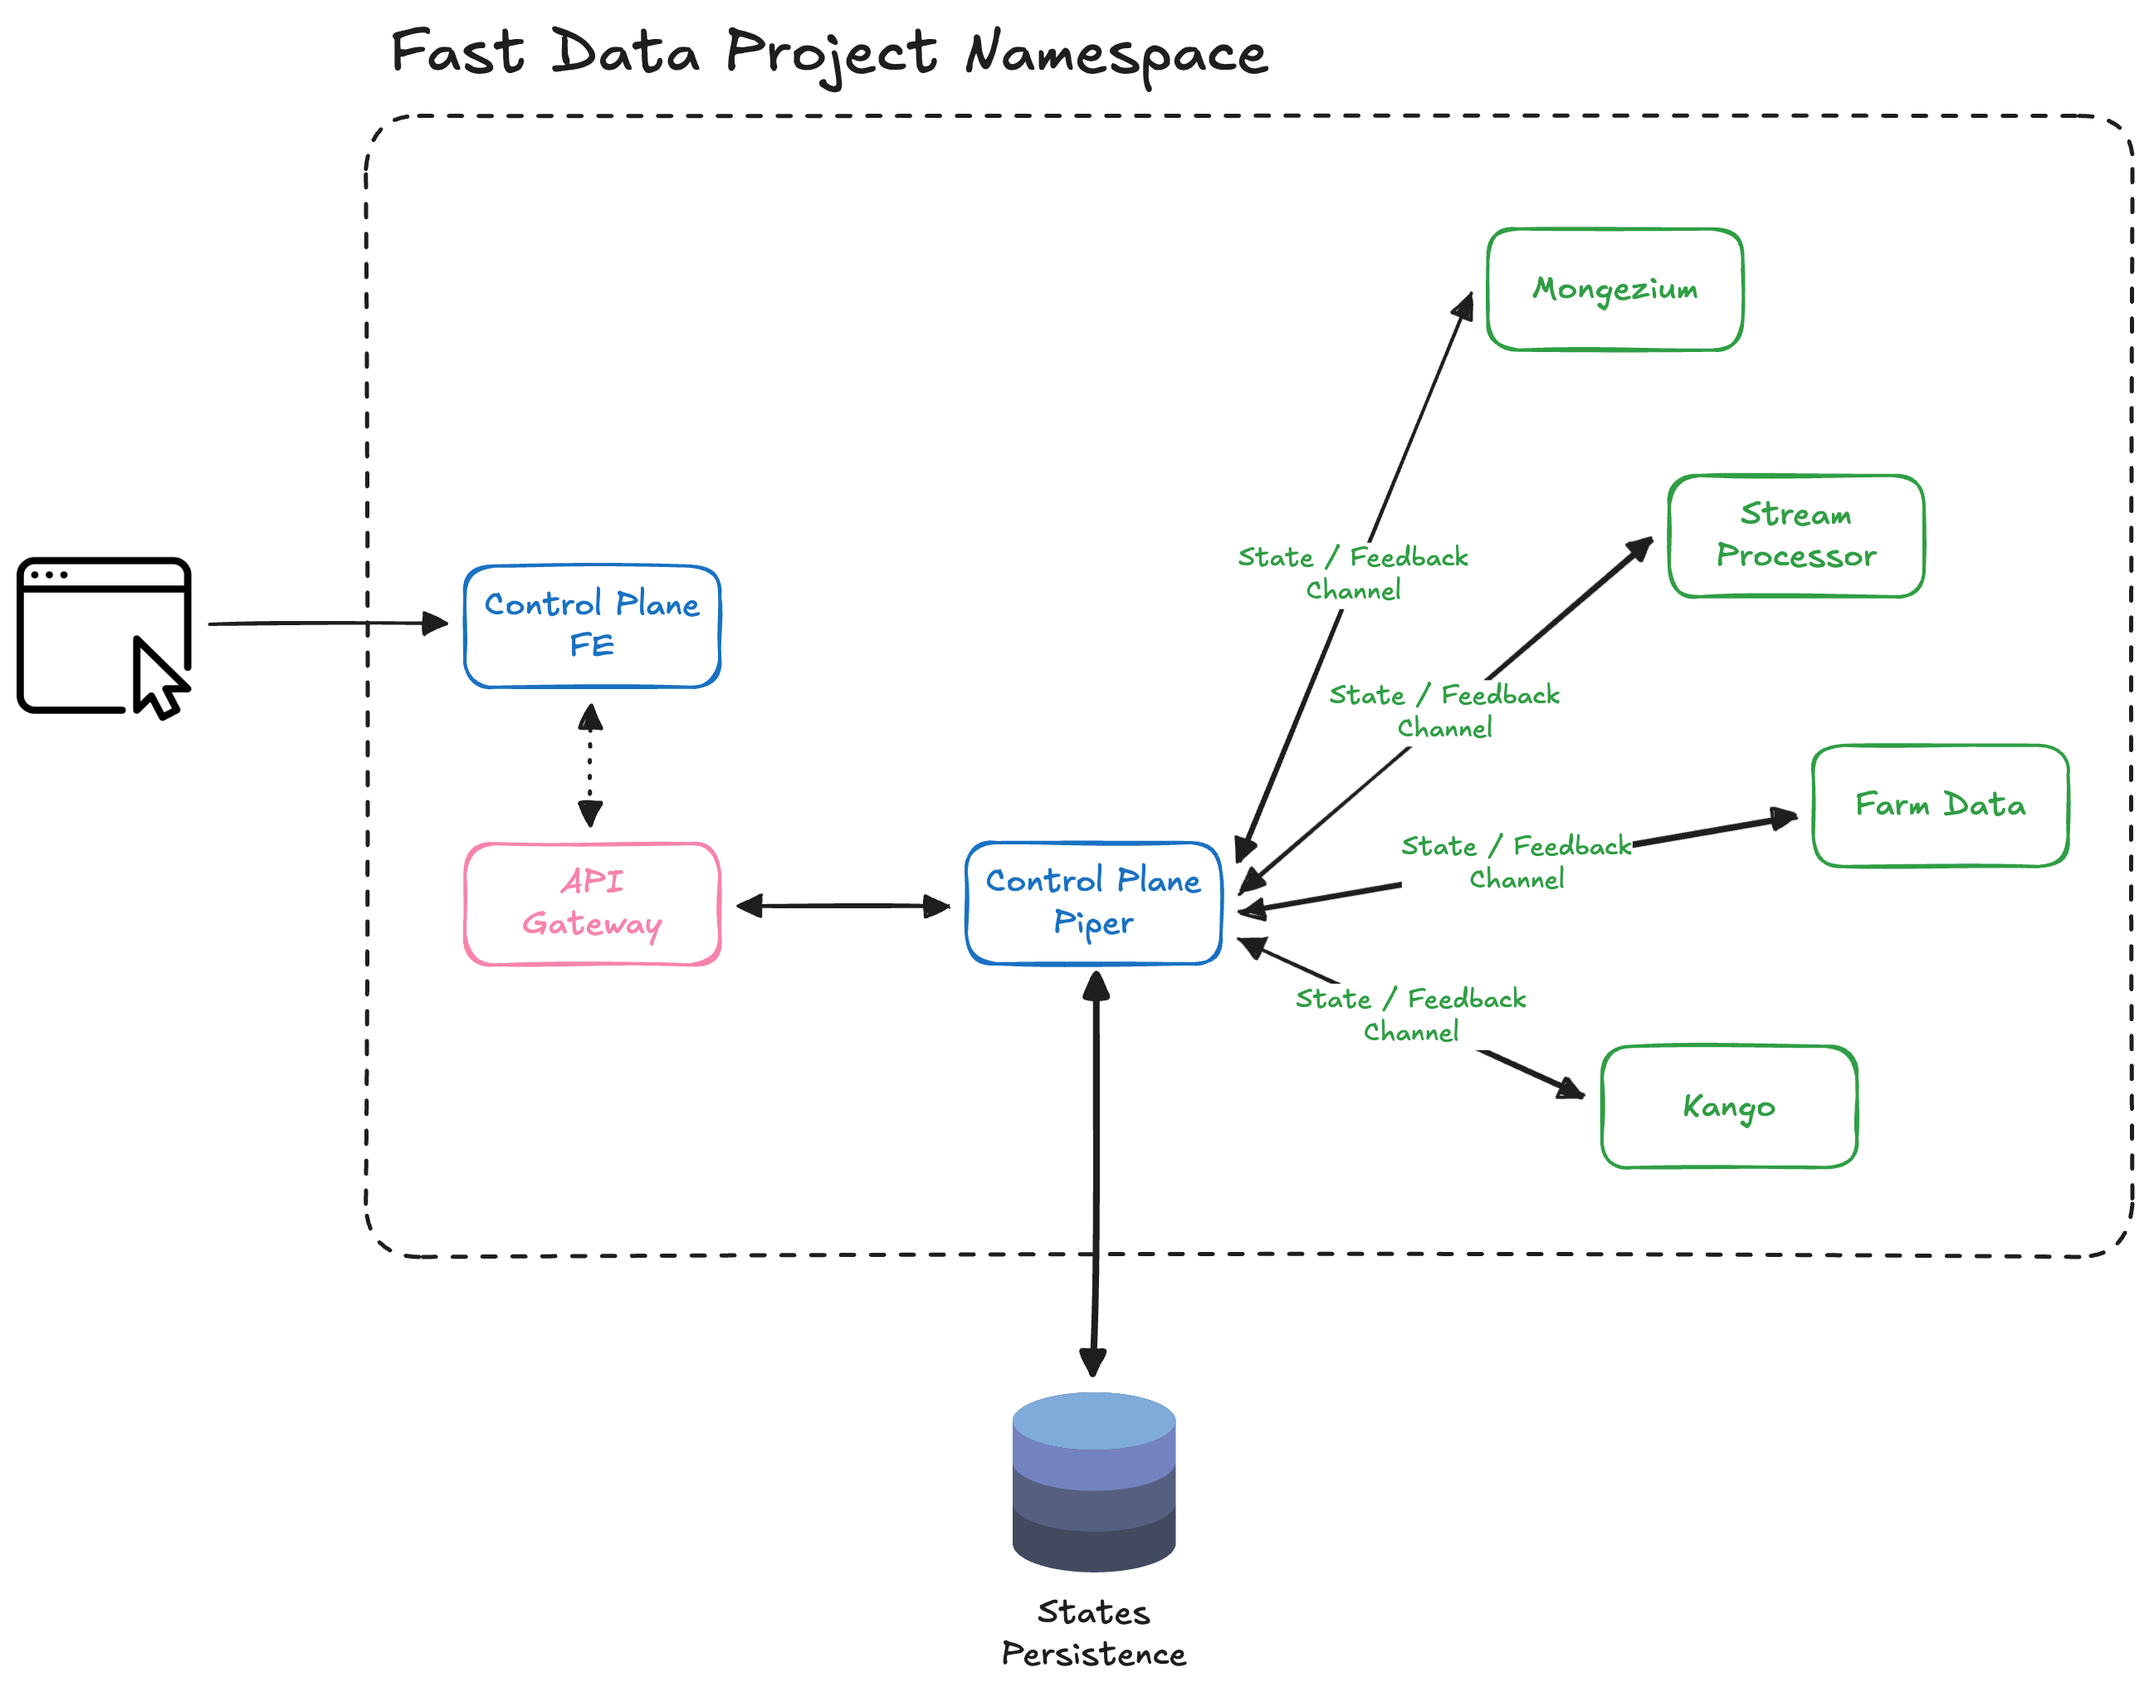
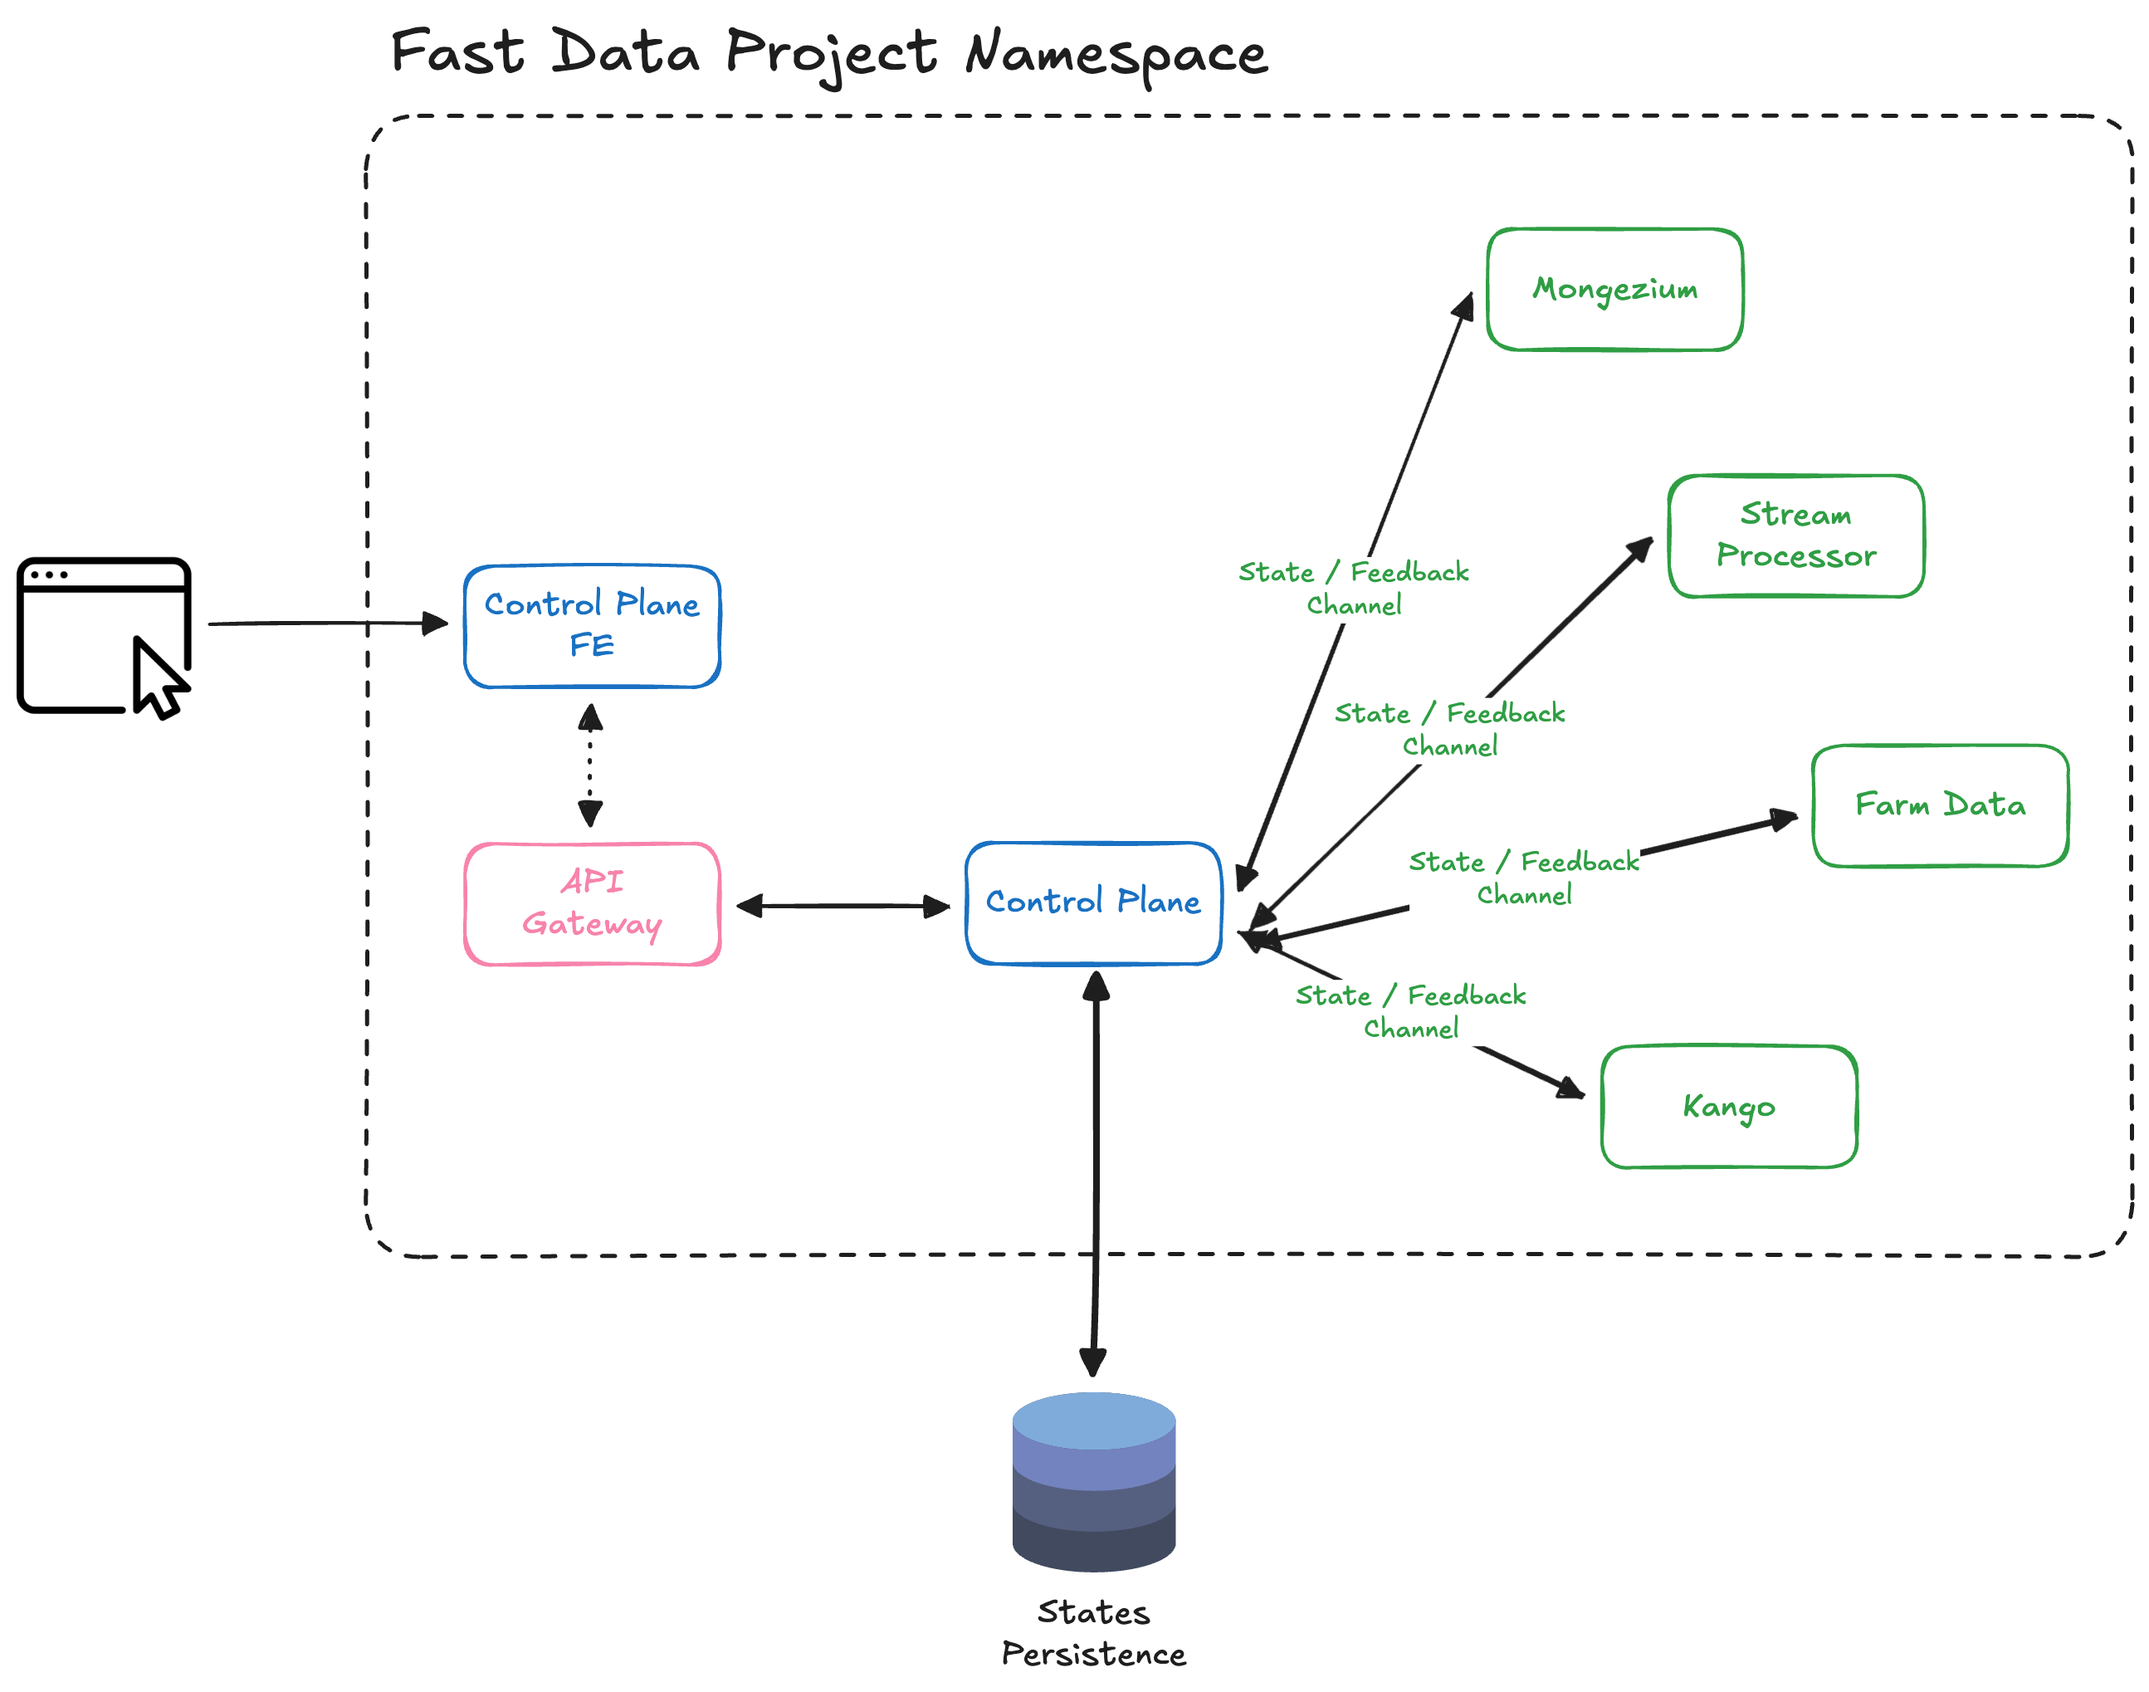
correcting compatibility matrix

diff --git a/docs/products/fast_data_v2/runtime_management/compatibility_matrix.md b/docs/products/fast_data_v2/runtime_management/compatibility_matrix.md
@@ -11,40 +11,40 @@ This section guides you to understand whether your Project can support Fast Data
 Here is described the compatibility between Fast Data v2 Control Plane application components and the external systems they rely on.
 Please ensure that versions shown in the matrix are respected in your deployed environments.
 
-| Service                                                                                       | Version | MongoDB | Redis  | Kafka |
-|-----------------------------------------------------------------------------------------------|---------|---------|--------|-------|
-| [Control Plane Frontend](/products/fast_data_v2/runtime_management/control_plane_ui)        | 0.1.0   | \>=5.0  | __N/A__ | __N/A__ |
-| [Control Plane Piper](/products/fast_data_v2/runtime_management/application_configuration)  | 0.1.0   | \>=5.0  | __N/A__ | \>=2.8  |
+| Service                 | Version | MongoDB |
+|-------------------------|---------|---------|
+| Control Plane Frontend  | 0.1.0   | \>=6.0  |
+| Control Plane           | 0.1.0   | \>=6.0  |
 
 <sup>*</sup><em>_N/A_</em> means the service does not depend on the resource
 
-## Fast Data Workloads
+## Fast Data Services
 
 Here is provided the compatibility matrix between Control Plane components and the Fast Data Engine v2 workloads that need to communicate with them.
 Please ensure that your services respect the following matrix.
 
-| Control Plane Frontend | Control Plane Piper | [Mongezium](/products/fast_data_v2/mongezium_cdc/overview) | [Stream Processor](/products/fast_data_v2/stream_processor/overview) | [Farm Data](/products/fast_data_v2/farm_data/overview) | [Kango](/products/fast_data_v2/kango/overview) |
+| [Control Plane Frontend](/products/fast_data_v2/runtime_management/application_configuration) | [Control Plane Piper](/products/fast_data_v2/runtime_management/application_configuration) | [Mongezium](/products/fast_data_v2/mongezium_cdc/overview) | [Stream Processor](/products/fast_data_v2/stream_processor/overview) | [Farm Data](/products/fast_data_v2/farm_data/overview) | [Kango](/products/fast_data_v2/kango/overview) |
 |:----------------------:|:-------------------:|:----------------------------------------------------------:|:---------------------------------------------------------------------:|:------------------------------------------------------:|:----------------------------------------------:|
-|         0.1.0          |        0.1.0        |                          \>=0.4.0                          |                                \>=0.5.0                                |                        \>=0.5.0                        |                    \>=0.5.0                    |
+|         0.1.0          |        0.1.0        |                          \>=0.5.0                          |                                \>=0.6.0                                |                        \>=0.6.0                        |                    \>=0.6.0                    |
 
 ## Service Latest Versions
 
 | Service                                                                                       | Version |
 |-----------------------------------------------------------------------------------------------|---------|
-| [Control Plane Frontend](/products/fast_data_v2/runtime_management/control_plane_ui)        | 0.1.0   |
+| [Control Plane Frontend](/products/fast_data_v2/runtime_management/application_configuration)        | 0.1.0   |
 | [Control Plane Piper](/products/fast_data_v2/runtime_management/application_configuration)  | 0.1.0   |
-| [Mongezium](/products/fast_data_v2/mongezium_cdc/overview)                                   | 0.4.3   |
-| [Stream Processor](/products/fast_data_v2/stream_processor/overview)                         | 0.5.6   |
-| [Farm Data](/products/fast_data_v2/farm_data/overview)                                       | 0.5.5   |
-| [Kango](/products/fast_data_v2/kango/overview)                                               | 0.5.2   |
+| [Mongezium](/products/fast_data_v2/mongezium_cdc/overview)                                   | 0.5.0   |
+| [Stream Processor](/products/fast_data_v2/stream_processor/overview)                         | 0.6.0   |
+| [Farm Data](/products/fast_data_v2/farm_data/overview)                                       | 0.6.0   |
+| [Kango](/products/fast_data_v2/kango/overview)                                               | 0.6.0   |
 
 ## Internal Compatibility
 
 | Service                    | Control Plane Frontend | Control Plane Piper | Mongezium | Stream Processor | Farm Data | Kango |
 |---------------------------:|:----------------------:|:-------------------:|:---------:|:----------------:|:---------:|:-----:|
-| Control Plane Frontend - 0.1.0 |         _N/A_          |        0.1.0        |   0.4.3   |      0.5.6       |   0.5.5   | 0.5.2 |
-| Control Plane Piper - 0.1.0    |         0.1.0          |        _N/A_        |   0.4.3   |      0.5.6       |   0.5.5   | 0.5.2 |
-| Mongezium - 0.4.3               |         0.1.0          |        0.1.0        |   _N/A_   |      0.5.6       |   0.5.5   | 0.5.2 |
-| Stream Processor - 0.5.6        |         0.1.0          |        0.1.0        |   0.4.3   |      _N/A_       |   0.5.5   | 0.5.2 |
-| Farm Data - 0.5.5               |         0.1.0          |        0.1.0        |   0.4.3   |      0.5.6       |   _N/A_   | 0.5.2 |
-| Kango - 0.5.2                   |         0.1.0          |        0.1.0        |   0.4.3   |      0.5.6       |   0.5.5   | _N/A_ |
+| Control Plane Frontend - 0.1.0 |         _N/A_          |        0.1.0        |   0.5.0   |      0.6.0       |   0.6.0   | 0.6.0 |
+| Control Plane Piper - 0.1.0    |         0.1.0          |        _N/A_        |   0.5.0   |      0.6.0       |   0.6.0   | 0.6.0 |
+| Mongezium - 0.5.0               |         0.1.0          |        0.1.0        |   _N/A_   |      0.6.0       |   0.6.0   | 0.6.0 |
+| Stream Processor - 0.6.0        |         0.1.0          |        0.1.0        |   0.5.0   |      _N/A_       |   0.6.0   | 0.6.0 |
+| Farm Data - 0.6.0               |         0.1.0          |        0.1.0        |   0.5.0   |      0.6.0       |   _N/A_   | 0.6.0 |
+| Kango - 0.6.0                   |         0.1.0          |        0.1.0        |   0.5.0   |      0.6.0       |   0.6.0   | _N/A_ |

diff --git a/docs/products/fast_data_v2/runtime_management/application_configuration.md b/docs/products/fast_data_v2/runtime_management/application_configuration.md
@@ -10,15 +10,13 @@ sidebar_label: Application Configuration
 
 ### Control Plane Frontend
 
-### Piper
+### Control Plane
 
 ### Envoy API Gateway
 
 ### Endpoints
 
 ## Workloads Configuration
-
-## Secure Access
 
 ## Application Deployment
 
